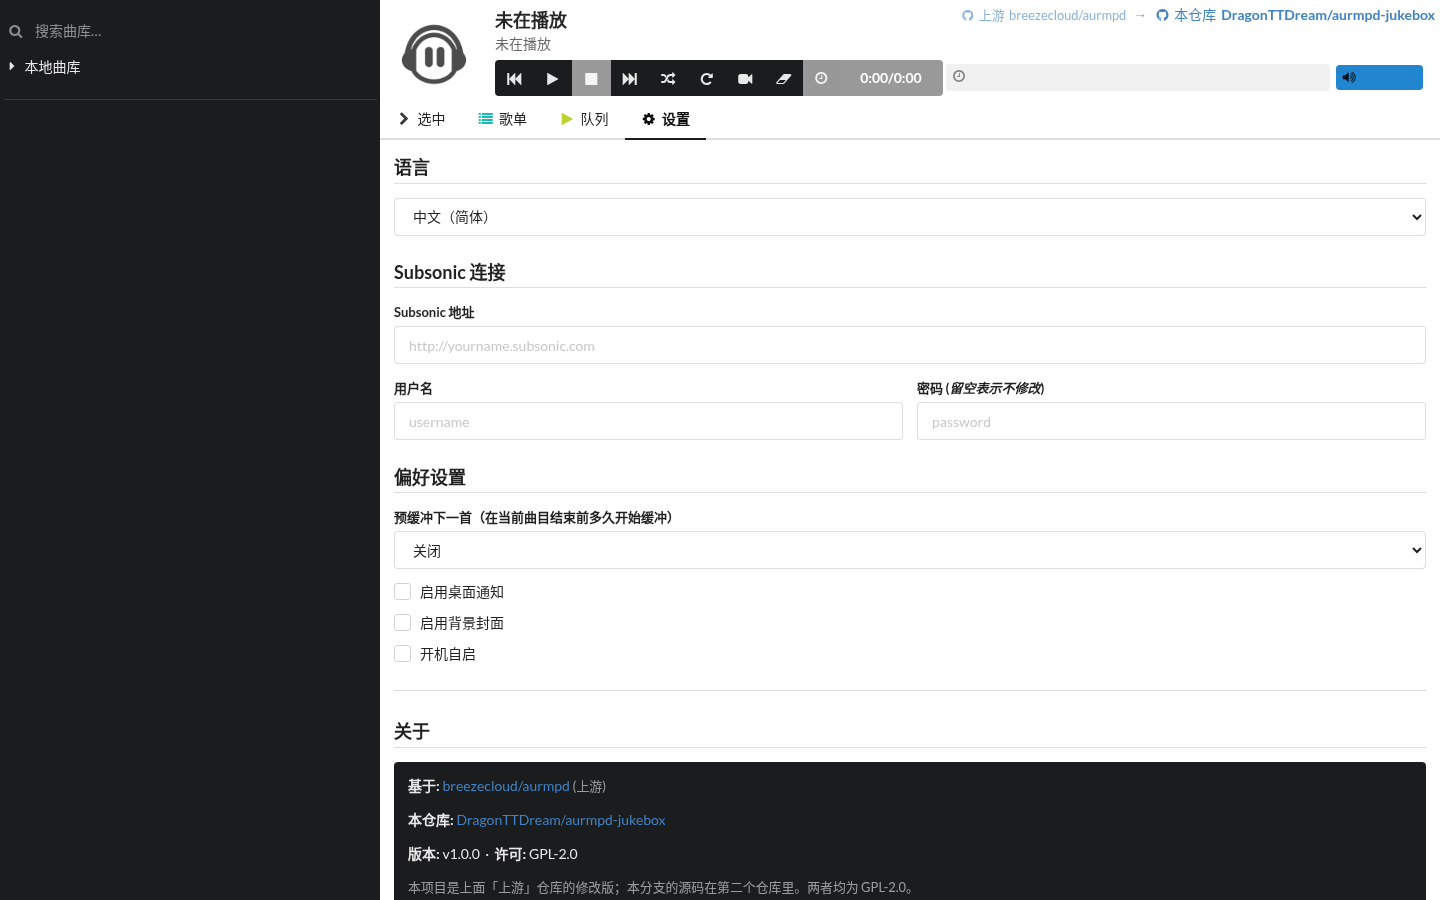
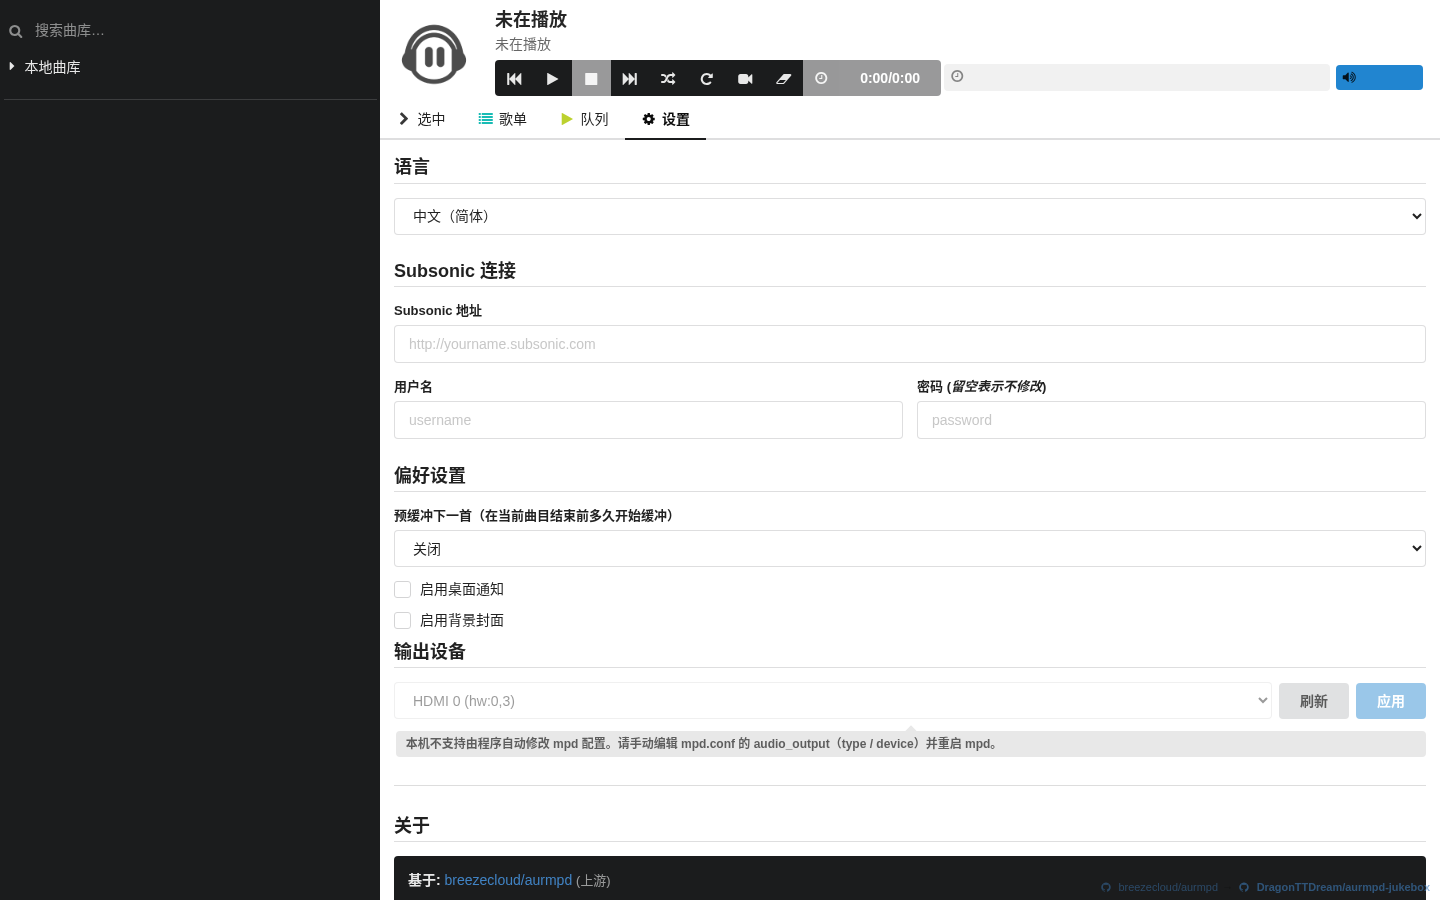
feat(v1.0.3): 顶部仓库署名移到页脚并弱化，不再遮挡播放器/占手机整行
- app.js: <Links /> 从渲染树首个元素移到末尾；去掉与 title 重复的
  「上游/本仓库」文字标签，只留 org/repo 与箭头
- default.css: 桌面端改为贴底右对齐细条（.78em + 55% 透明度），
  窄屏为正常流最末居中；滚动容器补 32px 让位，右下角消息提示上移
  36px，避免页脚盖住列表最后一行/toast
- 版本号升至 1.0.3（version.js + CMakeLists.txt）
- 重拍 6 张截图（真 mpd + 真 aurmpd，三视口），docs/FIXES.md 登记本条

diff --git a/aurial/src/css/default.css b/aurial/src/css/default.css
@@ -102,6 +102,7 @@
 		position: absolute;
 		top: 0; right: 0; bottom: 0; left: 0;
 		overflow: auto;
+		padding-bottom: 32px;
 	}
 
 	.playlist-selection .selectionView .item .header .artist {
@@ -133,21 +134,24 @@
 		position: absolute;
 		top: 51px; right: 0; bottom:0; left: 0;
 		overflow: auto;
+		padding-bottom: 32px;
 	}
 
 	.playlist-playing .queueView {
 		position: absolute;
 		top: 0; right: 0; bottom: 0; left: 0;
 		overflow: auto;
+		padding-bottom: 32px;
 	}
 
 	.ui.small.modal .image.content .description {
 		width: 100%;
 	}
 
+	/* 消息提示上移，给贴底的页脚署名让位（页脚高约 24.5px），避免相互遮挡 */
 	.messages {
 		position: absolute;
-		right: 10px; bottom: 10px;
+		right: 10px; bottom: 36px;
 		width: 400px;
 	}
 
@@ -157,12 +161,18 @@
 		animation-iteration-count: 1;
 	}
 
+	/* 页脚署名：贴底右对齐的细条，不再压在播放器上；
+	   内容区滚动容器补了等高的 padding-bottom，所以不会永久遮住最后一行 */
 	.links {
 		position: absolute;
-		top: 0;
+		left: 380px;
 		right: 0;
-		padding: 5px;
+		bottom: 0;
+		padding: 3px 10px 4px;
+		text-align: right;
 		z-index: 10000;
+		white-space: nowrap;
+		overflow-x: auto;
 	}
 
 	@keyframes fate-out {
@@ -623,6 +633,13 @@
 		min-width: 520px;
 	}
 
+	/* 页脚署名：正常流最末、居中弱化，不再占顶部版面 */
+	.links {
+		padding: 10px 4px 14px;
+		text-align: center;
+		line-height: 1.9;
+	}
+
 	.messages {
 		position: fixed;
 		left: 8px;
@@ -647,13 +664,13 @@
 }
 .artistList .subsonic-hint .icon { margin-right: .35em; }
 
-/* 页头署名：上游弱化显示，本仓库强调，两者用箭头连接，一眼可辨 */
+/* 页脚署名：整体弱化，上游弱/本仓库稍显，箭头连接，一眼可辨 */
+.links { font-size: .78em; opacity: .55; line-height: 1.6; }
 .links .repo-link { text-decoration: none; }
-.links .repo-link .repo-name { margin-left: .35em; }
-.links .repo-link.upstream { opacity: .62; font-size: .92em; }
-.links .repo-link.upstream .repo-name { font-weight: 400; }
+.links .repo-link .repo-name { margin-left: .25em; }
+.links .repo-link.upstream { opacity: .8; }
 .links .repo-link.fork { font-weight: 600; }
-.links .repo-sep { margin: 0 .5em; opacity: .5; }
+.links .repo-sep { margin: 0 .4em; opacity: .6; }
 
 /* 设置页「关于」 */
 .about-box { line-height: 1.7; }

diff --git a/aurial/src/js/jsx/app.js b/aurial/src/js/jsx/app.js
@@ -88,7 +88,6 @@ export default class App extends Component {
 
 		return (
 			<div>
-				<Links />
 				<ImageViewer title={t('imageViewer.title')} events={this.events} />
 				<div className="browser-frame">
 					<div className="artistList">{artistList}</div>
@@ -104,6 +103,7 @@ export default class App extends Component {
 						<div className="settings ui tab" data-tab="settings">{settings}</div>
 					</div>
 				</div>
+				<Links />
 				{messages}
 			</div>
 		);
@@ -190,15 +190,13 @@ class Links extends Component {
 	render() {
 		return (
 			<div className="links">
-				<a className="repo-link upstream" href={UPSTREAM_URL} title={UPSTREAM_LABEL}>
+				<a className="repo-link upstream" href={UPSTREAM_URL} title={t('app.upstream') + ' · ' + UPSTREAM_LABEL}>
 					<i className="github icon"></i>
-					<span>{t('app.upstream')}</span>
 					<span className="repo-name">{UPSTREAM_LABEL}</span>
 				</a>
 				<span className="repo-sep">→</span>
-				<a className="repo-link fork" href={REPO_URL} title={REPO_LABEL}>
+				<a className="repo-link fork" href={REPO_URL} title={t('app.thisRepo') + ' · ' + REPO_LABEL}>
 					<i className="github icon"></i>
-					<span>{t('app.thisRepo')}</span>
 					<span className="repo-name">{REPO_LABEL}</span>
 				</a>
 			</div>

diff --git a/aurial/src/js/version.js b/aurial/src/js/version.js
@@ -5,7 +5,7 @@
  * REPO_*     ：本仓库（本项目当前的发布位置）
  * 界面上两者必须同时呈现并明确区分，让人一眼看出"基于哪个仓库修改、又在哪个仓库"。
  */
-export const APP_VERSION = 'v1.0.2';
+export const APP_VERSION = 'v1.0.3';
 
 export const APP_NAME = '点歌机';
 export const APP_NAME_EN = 'Jukebox';

diff --git a/docs/FIXES.md b/docs/FIXES.md
@@ -14,6 +14,7 @@
 | 搜索框一直转圈 | 搜索请求走在线曲库接口，失败时不结束也不报错 | 改为过滤本地曲库，并为所有请求加超时与错误透传 |
 | 扫描含异常标签的曲库时崩溃 | 标签为空或非数字时 `std::stoi` 抛异常 | 改为安全解析（空值/非法值取默认值） |
 | 艺术家区显示「加载失败，请检查设置」 | 默认配置指向一个演示用的在线服务器，导致「未配置」判断不成立 | 移除该默认值；未配置时整个区域不渲染，配置了但连不上时折叠显示一行提示 |
+| 页面顶部的仓库署名抢眼、遮挡播放器、手机端占一整行 | 署名条在桌面端绝对定位在右上角（压在播放器上），窄屏无定位规则则掉入正常流占满一行 | 移入页脚并整体弱化（`.78em` + 55% 透明度）；桌面端贴底右对齐细条，窄屏正常流最末居中。滚动容器补 32px 让位避免遮住最后一行；右下角消息提示上移 36px 避免重叠 |
 
 ---
 
